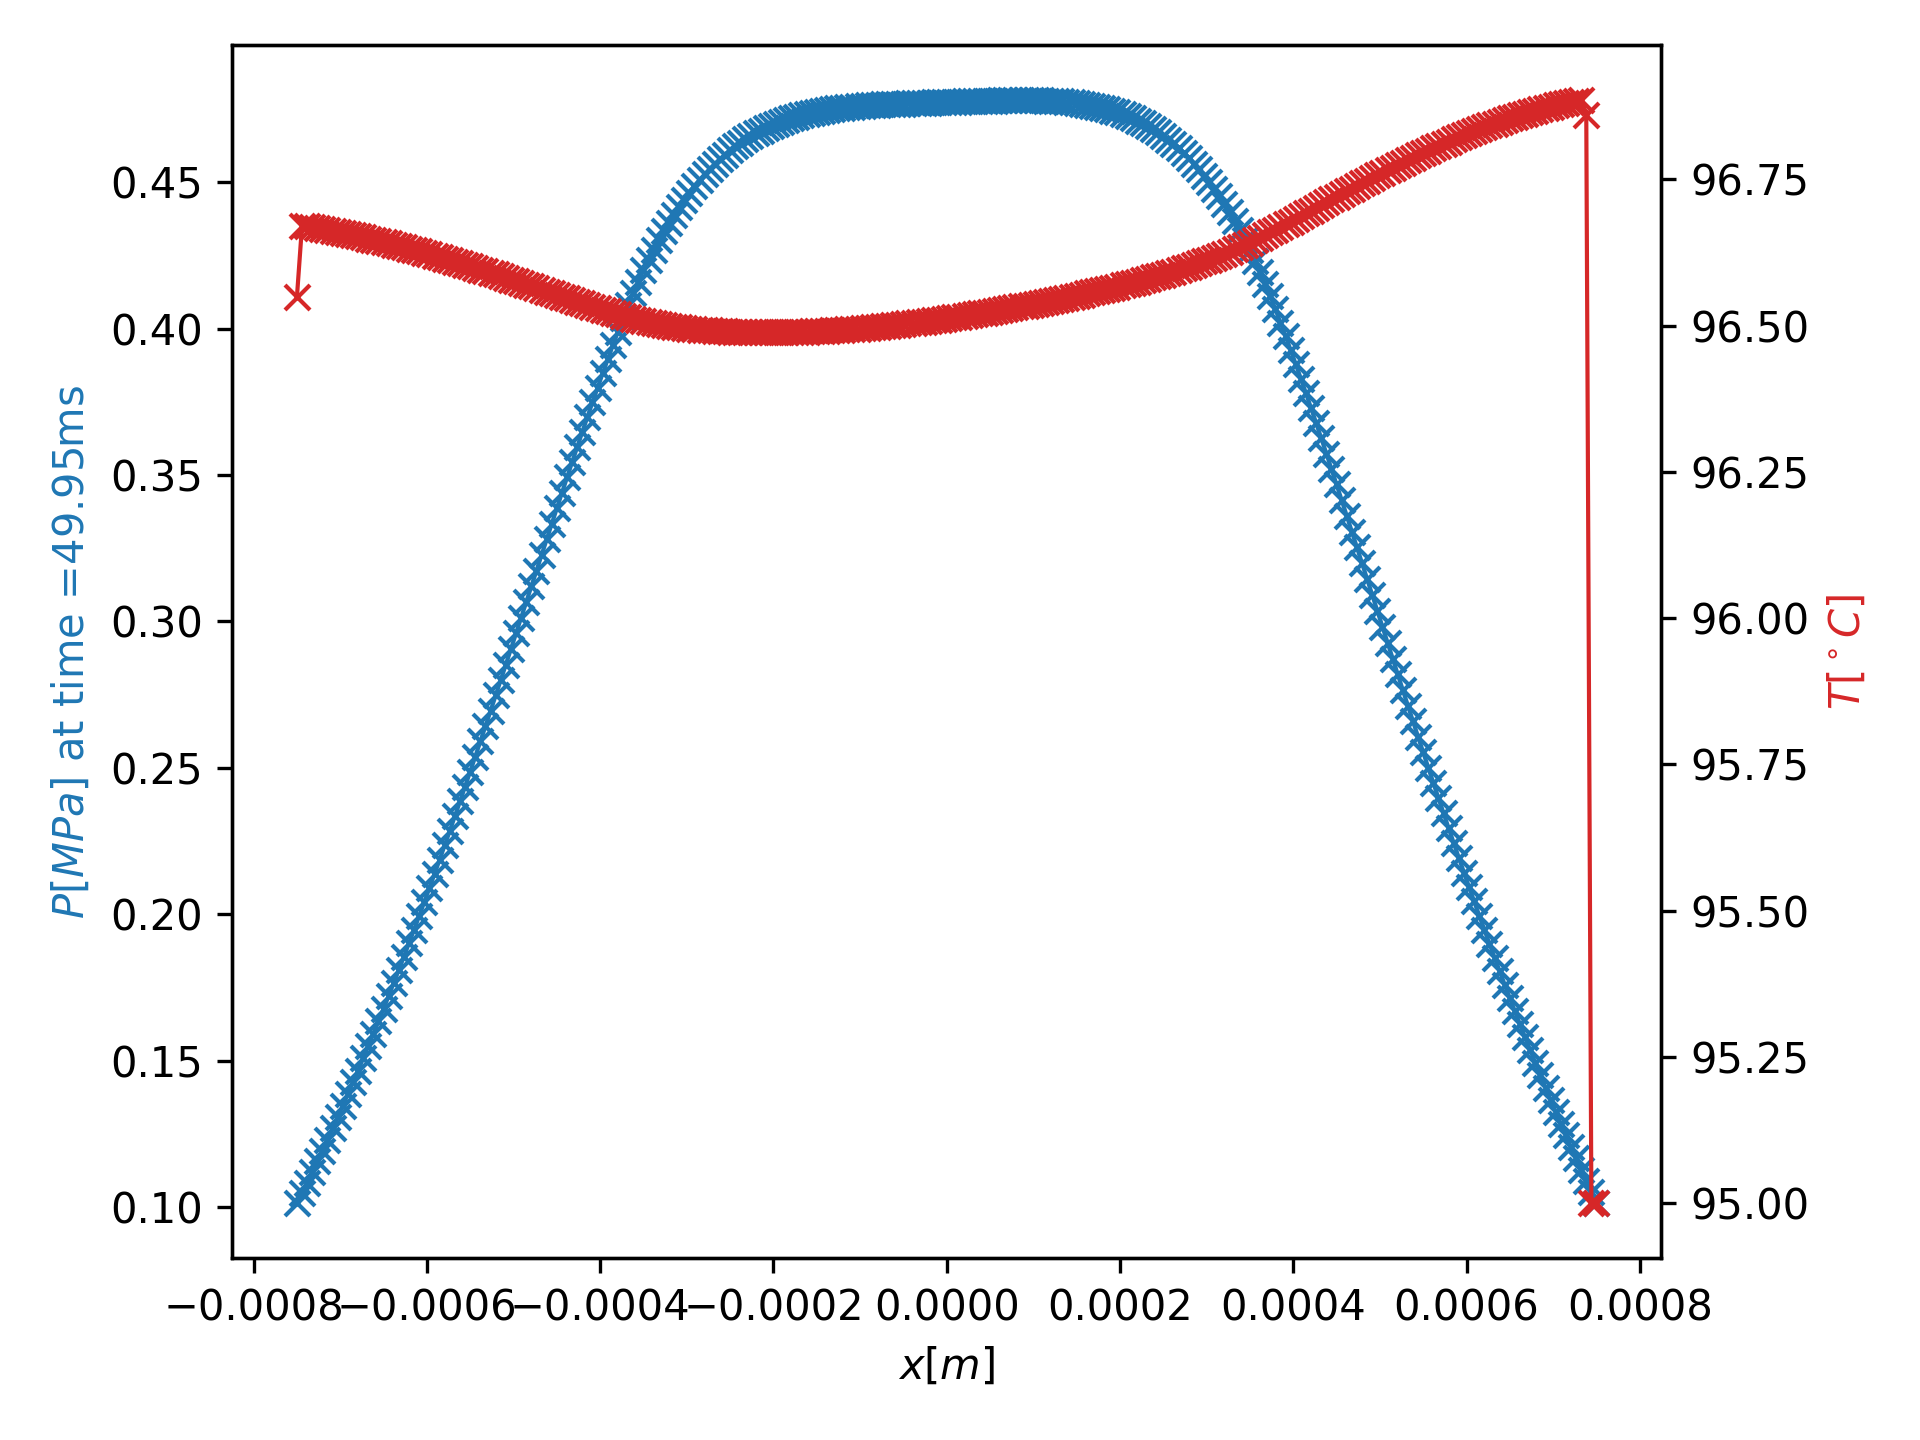
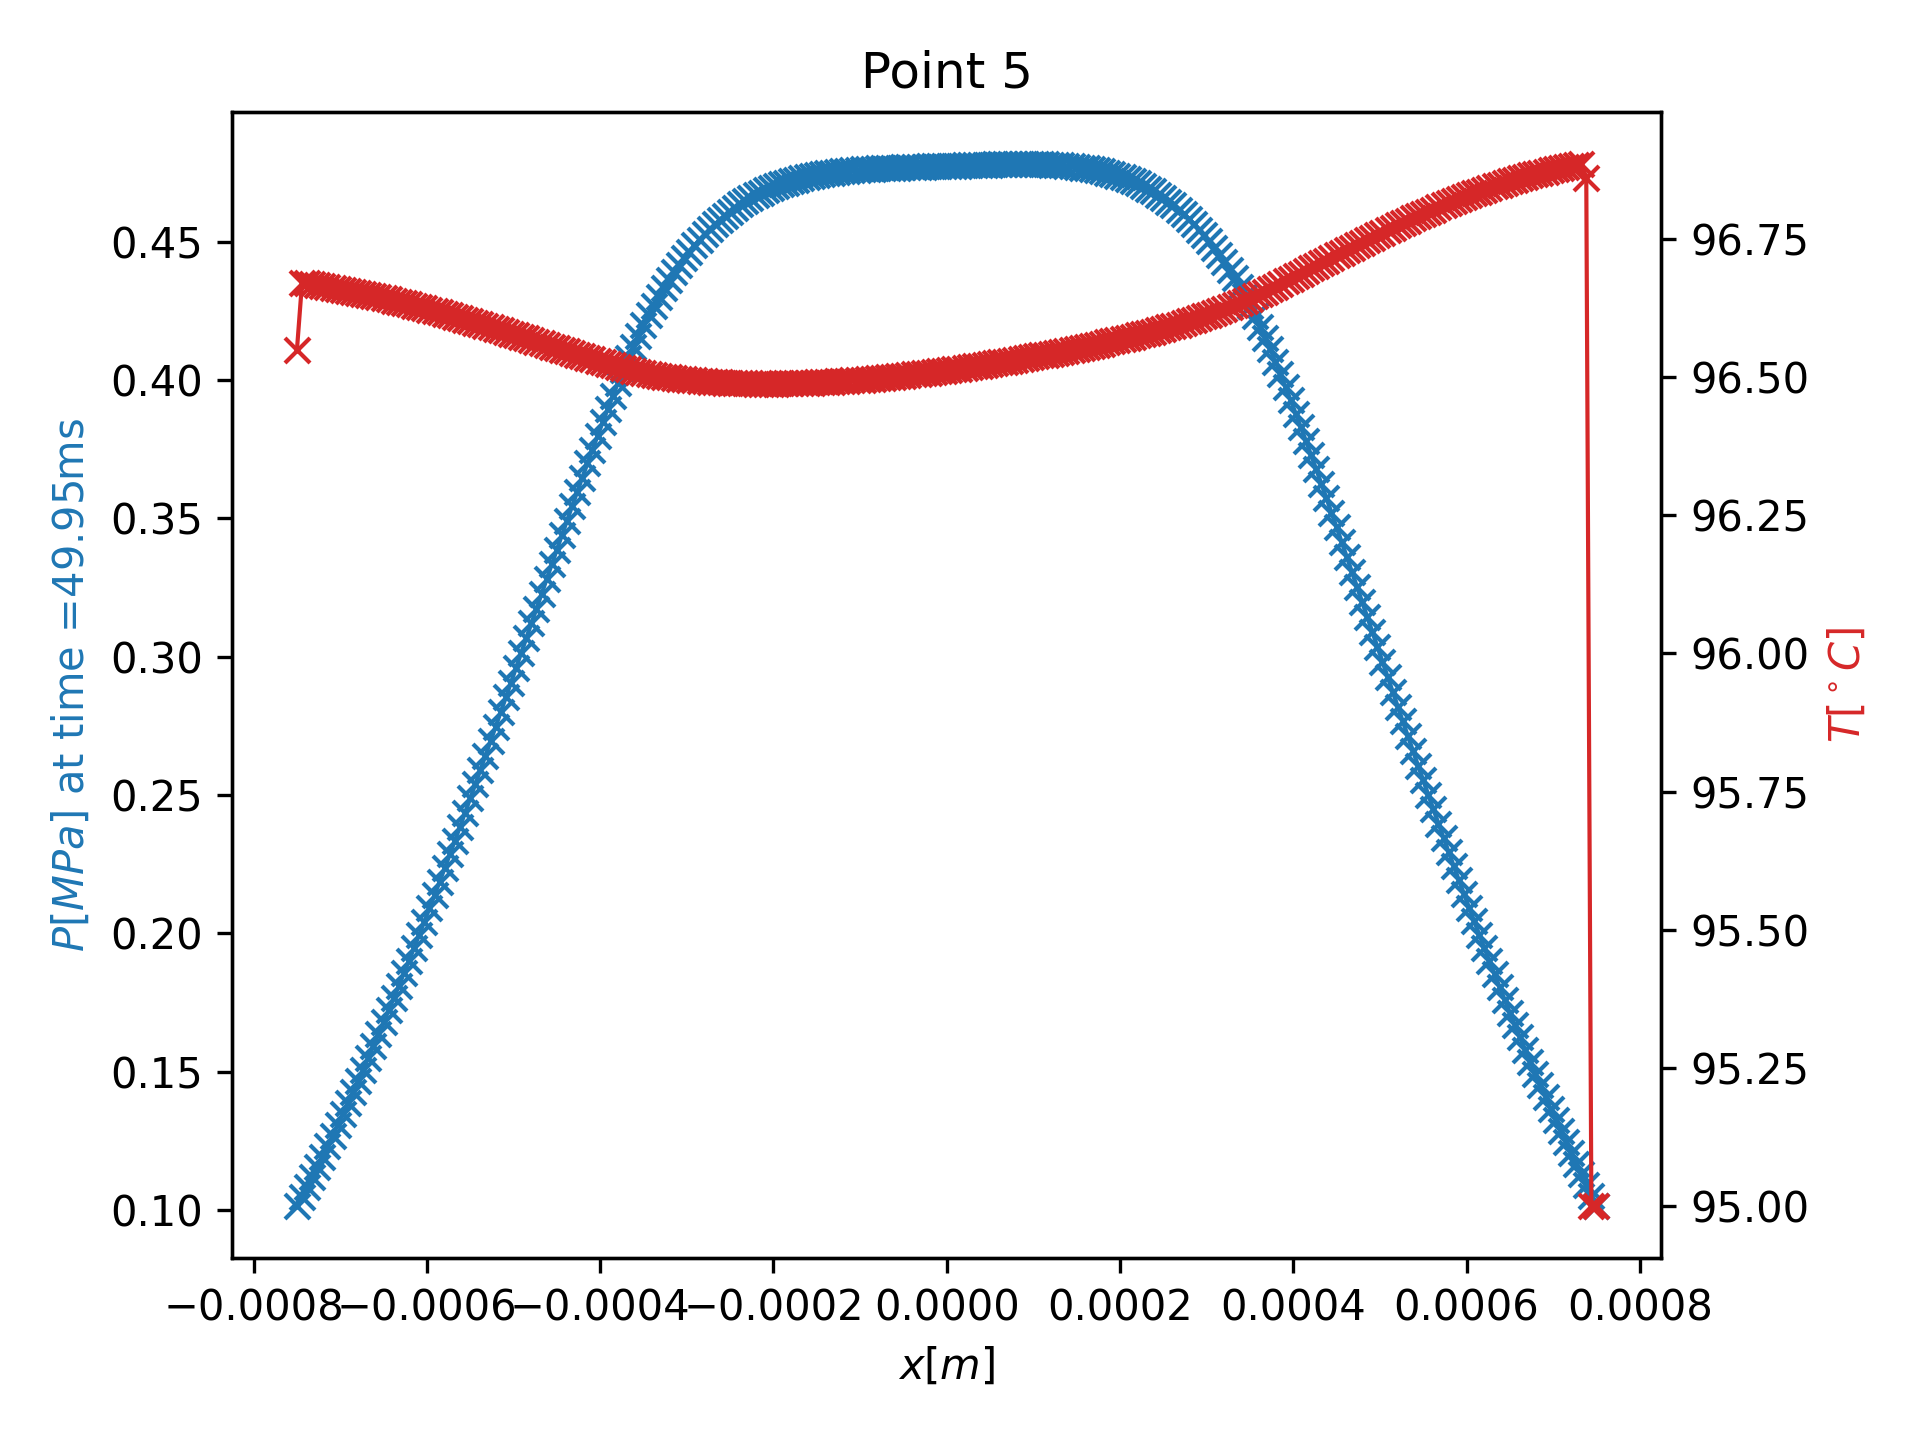
more worn figures

diff --git a/PostProcessing_worn.py b/PostProcessing_worn.py
@@ -154,88 +154,88 @@ for time in range(Time.nt - 1):
     COF_values[time] = abs(StateVector[time].COF)
 
 ## Single color film thickness
-plt.plot(Ops.CranckAngle[1:], Lambda_values, 'o',label='worn ring',markersize=3)
-plt.plot(Ops.CranckAngle[1:], Lambda_new, 'o',label='new ring',markersize=3)
-plt.xlabel('Crank angle $\psi$ [rad]')
-plt.ylabel('$\Lambda$ [-]')
-plt.hlines([ 2.5],-2,15,'k',['dashdot'], linewidth=.8,label='Λ = 2.5')
-plt.hlines([1],-2,15,'k',['dotted'], linewidth=.8,label='Λ = 1')
-plt.xlim([-.5, 13])
-# plt.vlines(Ops.CranckAngle[time],-1,60,'k','--', linewidth=.6)
-plt.ylim([-1,60])
-plt.legend(loc= (.58,.75))
-pi = np.pi
-psi = np.arange(0, 4 * pi + pi/2, step=(pi/2))
-plt.xticks(psi,['0','π/2', 'π', '3π/2', '2π','5π/2', '3π', '7π/2', '4π'])
+# plt.plot(Ops.CranckAngle[1:], Lambda_values, 'o',label='worn ring',markersize=3)
+# plt.plot(Ops.CranckAngle[1:], Lambda_new, 'o',label='new ring',markersize=3)
+# plt.xlabel('Crank angle $\psi$ [rad]')
+# plt.ylabel('$\Lambda$ [-]')
+# plt.hlines([ 2.5],-2,15,'k',['dashdot'], linewidth=.8,label='Λ = 2.5')
+# plt.hlines([1],-2,15,'k',['dotted'], linewidth=.8,label='Λ = 1')
+# plt.xlim([-.5, 13])
+# # plt.vlines(Ops.CranckAngle[time],-1,60,'k','--', linewidth=.6)
+# plt.ylim([-1,60])
+# plt.legend(loc= (.58,.75))
+# pi = np.pi
+# psi = np.arange(0, 4 * pi + pi/2, step=(pi/2))
+# plt.xticks(psi,['0','π/2', 'π', '3π/2', '2π','5π/2', '3π', '7π/2', '4π'])
 
-plt.vlines(Ops.CranckAngle[interesting_timestamps],-3,60,'k','--', linewidth=.6)
+# plt.vlines(Ops.CranckAngle[interesting_timestamps],-3,60,'k','--', linewidth=.6)
 
-p = Rectangle((2.156*pi,-3),1.364*pi,70,ec='red',fc='white',zorder=.1,hatch='/') #,fc='red'
-plt.gca().add_patch(p)
+# p = Rectangle((2.156*pi,-3),1.364*pi,70,ec='red',fc='white',zorder=.1,hatch='/') #,fc='red'
+# plt.gca().add_patch(p)
 
-plt.savefig('PostProcessing_worn/WORN_Film_thickness_comparison.png',dpi=300)
-plt.show()
-plt.close()
+# plt.savefig('PostProcessing_worn/WORN_Film_thickness_comparison.png',dpi=300)
+# plt.show()
+# plt.close()
 
 ## Multicolor filmthickness
-gradient = np.linspace(0,1,len(Ops.CranckAngle[1:]))
-for i in range(len(Lambda_values)):
-    plt.plot(Ops.CranckAngle[i+1],Lambda_values[i],'o',color=(.47,gradient[i],gradient[i]),markersize=3)
-plt.xlabel('Crank angle $\psi$ [rad]')
-plt.ylabel('$\Lambda$ [-]')
-plt.hlines([ 2.5],-2,15,'k',['dashdot'], linewidth=.8,label='Λ = 2.5')
-plt.hlines([1],-2,15,'k',['dotted'], linewidth=.8,label='Λ = 1')
-plt.xlim([-.5, 13])
-plt.vlines(Ops.CranckAngle[interesting_timestamps],-3,60,'k','--', linewidth=.6)
-plt.ylim([-1,60])
-p = Rectangle((2.156*pi,-3),1.364*pi,70,ec='red',fc='white',zorder=.1,hatch='/') #,fc='red'
-plt.gca().add_patch(p)
-pi = np.pi
-psi = np.arange(0, 4 * pi + pi/2, step=(pi/2))
-plt.xticks(psi,['0','π/2', 'π', '3π/2', '2π','5π/2', '3π', '7π/2', '4π'])
-plt.savefig('PostProcessing_worn/WORN_Film_thickness.png',dpi=300)
-plt.show()
-plt.close()
+# gradient = np.linspace(0,1,len(Ops.CranckAngle[1:]))
+# for i in range(len(Lambda_values)):
+#     plt.plot(Ops.CranckAngle[i+1],Lambda_values[i],'o',color=(.47,gradient[i],gradient[i]),markersize=3)
+# plt.xlabel('Crank angle $\psi$ [rad]')
+# plt.ylabel('$\Lambda$ [-]')
+# plt.hlines([ 2.5],-2,15,'k',['dashdot'], linewidth=.8,label='Λ = 2.5')
+# plt.hlines([1],-2,15,'k',['dotted'], linewidth=.8,label='Λ = 1')
+# plt.xlim([-.5, 13])
+# plt.vlines(Ops.CranckAngle[interesting_timestamps],-3,60,'k','--', linewidth=.6)
+# plt.ylim([-1,60])
+# p = Rectangle((2.156*pi,-3),1.364*pi,70,ec='red',fc='white',zorder=.1,hatch='/') #,fc='red'
+# plt.gca().add_patch(p)
+# pi = np.pi
+# psi = np.arange(0, 4 * pi + pi/2, step=(pi/2))
+# plt.xticks(psi,['0','π/2', 'π', '3π/2', '2π','5π/2', '3π', '7π/2', '4π'])
+# plt.savefig('PostProcessing_worn/WORN_Film_thickness.png',dpi=300)
+# plt.show()
+# plt.close()
 
 
 # # ## Stribeck curve
 
-
-
-plt.plot(Hersey_values*10**4, COF_values, 'o',markersize=3)
-plt.xlabel('Hersey number x$ 10^4$ [-]')
-plt.ylabel('Coefficient of Friction [-]')
-plt.savefig('PostProcessing_worn/WORN_Stribeck_curve_single_color.png',dpi=300)
-plt.show()
-plt.close()
+# plt.plot(Hersey_values*10**4, COF_values, 'o',markersize=3)
+# plt.xlabel('Hersey number x$ 10^4$ [-]')
+# plt.ylabel('Coefficient of Friction [-]')
+# plt.savefig('PostProcessing_worn/WORN_Stribeck_curve_single_color.png',dpi=300)
+# plt.show()
+# plt.close()
 
 ## Multi color Stribeck
-for i in range(len(COF_values)):
-    plt.plot(Hersey_values[i]*10**4,COF_values[i],'o',color=(.47,gradient[i],gradient[i]),markersize=3)
-plt.xlabel('Hersey number x$ 10^4$ [-]')
-plt.ylabel('Coefficient of Friction [-]')
-# plt.xscale('log')
-plt.savefig('PostProcessing_worn/WORN_Stribeck_curve.png',dpi=300)
-plt.show()
-plt.close()
+# for i in range(len(COF_values)):
+#     plt.plot(Hersey_values[i]*10**4,COF_values[i],'o',color=(.47,gradient[i],gradient[i]),markersize=3)
+# plt.xlabel('Hersey number x$ 10^4$ [-]')
+# plt.ylabel('Coefficient of Friction [-]')
+# # plt.xscale('log')
+# plt.savefig('PostProcessing_worn/WORN_Stribeck_curve.png',dpi=300)
+# plt.show()
+# plt.close()
 
 
 
 # ## Interesting points
-vis.Report_Ops(Time,Ops,interesting_timestamps)
-plt.savefig('PostProcessing_worn/WORN_Interesting_points.png',dpi=300)
-plt.show()
-plt.close()
+# vis.Report_Ops(Time,Ops,interesting_timestamps)
+# plt.savefig('PostProcessing_worn/WORN_Interesting_points.png',dpi=300)
+# plt.show()
+# plt.close()
 
 
 
 
 # ## Characteristic pressure & temperature fields at interesting and relevant locations
-
+i=0
 for time in interesting_timestamps:
-    
+    i+=1
     vis.Report_PT(Grid, StateVector[time], time=time) # plt.show() has to be uncommented in VisualLib --> kan ook gwn hier
     figname="PostProcessing_worn/WORN_PT@Time_"+"{0:.2f}".format(round(Time.t[time]*1000,5))+"ms.png" 
+    plt.title('Point ' +str(i))
+    plt.tight_layout()
     plt.savefig(figname,dpi=300)
     plt.show()
     plt.close()
@@ -276,83 +276,85 @@ for time in interesting_timestamps:
 
 
 ## 2D vectorplot of flow velocity at relevant locations
-
-for time in interesting_timestamps:
-    visc_x = StateVector[time].Viscosity
-    density = Mixture.Density(StateVector[time])
-    p = StateVector[time].Pressure
-    p_x = Discretization.DDXCentral @ p
-    DDX = Discretization.DDXCentral
-    p_y = 0.0
-    x_grid = Grid.x
-    z_n = Grid.Nx
-    # h = StateVector[time].h
-    h_template = 4 * Engine.CompressionRing.CrownHeight * (Grid.x**2) / (Engine.CompressionRing.Thickness**2)
-    h_transl = h_template - 0.25 * Engine.CompressionRing.CrownHeight
-    h_capped = np.maximum(h_transl, 0)
-    h = h_capped + StateVector[time].h0
+# j = 0
+# for time in interesting_timestamps:
+#     j += 1
+#     visc_x = StateVector[time].Viscosity
+#     density = Mixture.Density(StateVector[time])
+#     p = StateVector[time].Pressure
+#     p_x = Discretization.DDXCentral @ p
+#     DDX = Discretization.DDXCentral
+#     p_y = 0.0
+#     x_grid = Grid.x
+#     z_n = Grid.Nx
+#     # h = StateVector[time].h
+#     h_template = 4 * Engine.CompressionRing.CrownHeight * (Grid.x**2) / (Engine.CompressionRing.Thickness**2)
+#     h_transl = h_template - 0.25 * Engine.CompressionRing.CrownHeight
+#     h_capped = np.maximum(h_transl, 0)
+#     h = h_capped + StateVector[time].h0
     
-    u1 = 0
-    u2 = Ops.SlidingVelocity[time] # or PistonVelocity ? idk
-    Nx = Grid.Nx
-    u_x = np.zeros((z_n, Nx))
-    u_z = np.zeros((z_n, Nx))
+#     u1 = 0
+#     u2 = Ops.SlidingVelocity[time] # or PistonVelocity ? idk
+#     Nx = Grid.Nx
+#     u_x = np.zeros((z_n, Nx))
+#     u_z = np.zeros((z_n, Nx))
 
-    z_grid = np.linspace(0.0, h[0], z_n)
-    for x in range(Grid.Nx):
-        u_x[:, x] = np.array([1/visc_x[x] * p_x[x] * 1/2 * (z**2 - h[x] * z) if z < h[x] else 0 for z in z_grid])  # Poiseuille
-        u_x[:, x] += np.array([(u2 - u1) / h[x] * z + u1 if z < h[x] else 0 for z in z_grid])                      # Couette
-        # Note: list comprehension is used to get zero for points "inside" of the ring in the vector plot
-        # print(u_x[:,x])
-        # print(np.array([1/visc_x[x] * p_x[x] * 1/2 * (z**2 - h[x] * z) if z < h[x] else 0 for z in z_grid]))
-        # u_z[:, x] = np.trapz(1/density[x] * DDX @ (density[x] * u_x[:, x]),z_grid)*10000
+#     z_grid = np.linspace(0.0, h[0], z_n)
+#     for x in range(Grid.Nx):
+#         u_x[:, x] = np.array([1/visc_x[x] * p_x[x] * 1/2 * (z**2 - h[x] * z) if z < h[x] else 0 for z in z_grid])  # Poiseuille
+#         u_x[:, x] += np.array([(u2 - u1) / h[x] * z + u1 if z < h[x] else 0 for z in z_grid])                      # Couette
+#         # Note: list comprehension is used to get zero for points "inside" of the ring in the vector plot
+#         # print(u_x[:,x])
+#         # print(np.array([1/visc_x[x] * p_x[x] * 1/2 * (z**2 - h[x] * z) if z < h[x] else 0 for z in z_grid]))
+#         # u_z[:, x] = np.trapz(1/density[x] * DDX @ (density[x] * u_x[:, x]),z_grid)*10000
     
-    # np.average(u_x)
-    ## Reduce amount of datapoint used to generate vectors. Note: plt.quiver wants the same amount of elements in X and Y!
-    skip = 10
-    scale = 1
-    # if time == 1:
-    #     skip = 12
-    #     scale = 20
-    if time in np.array([1, 500, 999]):
-        skip = 14
-        scale = 5
-    skip1 = (slice(None, None, skip))
-    skip2 = (slice(None, None, skip), slice(None, None, skip))
+#     # np.average(u_x)
+#     ## Reduce amount of datapoint used to generate vectors. Note: plt.quiver wants the same amount of elements in X and Y!
+#     skip = 10
+#     scale = 1
+#     # if time == 1:
+#     #     skip = 12
+#     #     scale = 20
+#     if time in np.array([1, 500, 999]):
+#         skip = 14
+#         scale = 5
+#     skip1 = (slice(None, None, skip))
+#     skip2 = (slice(None, None, skip), slice(None, None, skip))
 
-    ## Make grid for vectors
-    X, Z = np.meshgrid(x_grid[skip1], z_grid[skip1])
+#     ## Make grid for vectors
+#     X, Z = np.meshgrid(x_grid[skip1], z_grid[skip1])
 
-    X_l, Z_l = np.meshgrid((x_grid[:Nx//2])[skip1], (z_grid)[skip1])
-    X_r, Z_r = np.meshgrid((x_grid[Nx//2+1:])[skip1], (z_grid)[skip1])
+#     X_l, Z_l = np.meshgrid((x_grid[:Nx//2])[skip1], (z_grid)[skip1])
+#     X_r, Z_r = np.meshgrid((x_grid[Nx//2+1:])[skip1], (z_grid)[skip1])
 
 
-    ## Make vector plot
-    pts = [[-0.75,0.02]]
+#     ## Make vector plot
+#     pts = [[-0.75,0.02]]
     
-    for i in range(len(x_grid)):
-        pts.append([x_grid[i]*1000,h[i]*1000])
-    pts.append([0.75,0.02])
-    p = Polygon(pts,closed=False,ec='black',fc='grey',zorder=.1)
-    plt.gca().add_patch(p)
+#     for i in range(len(x_grid)):
+#         pts.append([x_grid[i]*1000,h[i]*1000])
+#     pts.append([0.75,0.02])
+#     p = Polygon(pts,closed=False,ec='black',fc='grey',zorder=.1)
+#     plt.gca().add_patch(p)
 
-    plt.quiver(X*1000,Z*1000,u_x[skip2]*scale,u_z[skip2],pivot='tail',minlength=0,scale=350) #scale=350 for v!=0
+#     plt.quiver(X*1000,Z*1000,u_x[skip2]*scale,u_z[skip2],pivot='tail',minlength=0,scale=350) #scale=350 for v!=0
 
-    ### (Un)comment following two line to ensure that no vector crosses the ring.
-    # plt.quiver(X_l,Z_l,(u_x[:,:Nx//2])[skip2],(u_z[:,:Nx//2])[skip2],minlength=0,pivot='tip',scale=350)
-    # plt.quiver(X_r,Z_r,(u_x[:,Nx//2+1:])[skip2],(u_z[:,Nx//2+1:])[skip2],minlength=0,pivot='tail',scale=350)
+#     ### (Un)comment following two line to ensure that no vector crosses the ring.
+#     # plt.quiver(X_l,Z_l,(u_x[:,:Nx//2])[skip2],(u_z[:,:Nx//2])[skip2],minlength=0,pivot='tip',scale=350)
+#     # plt.quiver(X_r,Z_r,(u_x[:,Nx//2+1:])[skip2],(u_z[:,Nx//2+1:])[skip2],minlength=0,pivot='tail',scale=350)
 
-    # plt.plot(x_grid*1000, StateVector[time].h*1000)
-    figname="PostProcessing_worn/WORN_Vectorplot@Time_"+"{0:.2f}".format(round(Time.t[time]*1000,5))+"ms.png" 
-    plt.xlabel('x [mm]')
-    plt.ylabel('z [mm]')
-    plt.title('Vectorplot for t =' + str(time*5/100) + 'ms')
-    plt.xlim([-.8,.8])
-    plt.ylim([0.0, 0.0175])
-    plt.tight_layout()
-    plt.savefig(figname,dpi=300)
-    plt.show()
-    plt.close()
+#     # plt.plot(x_grid*1000, StateVector[time].h*1000)
+#     figname="PostProcessing_worn/WORN_Vectorplot@Time_"+"{0:.2f}".format(round(Time.t[time]*1000,5))+"ms.png" 
+#     plt.xlabel('x [mm]')
+#     plt.ylabel('z [mm]')
+#     # plt.title('Vectorplot for t =' + str(time*5/100) + 'ms')
+#     plt.title('Point ' +str(j))
+#     plt.xlim([-.8,.8])
+#     plt.ylim([0.0, 0.0175])
+#     plt.tight_layout()
+#     plt.savefig(figname,dpi=300)
+#     plt.show()
+#     plt.close()
 
             
 
@@ -369,6 +371,9 @@ plt.plot(Ops.CranckAngle[1:], WearDepthRing_values, 'o',markersize=3)
 plt.xlabel('Crank angle [rad]')
 # plt.plot(Time.t[1:], WearDepthRing_values, 'bo')
 # plt.xlabel('time [s]')
+pi = np.pi
+psi = np.arange(0, 4 * pi + pi/2, step=(pi/2))
+plt.xticks(psi,['0','π/2', 'π', '3π/2', '2π','5π/2', '3π', '7π/2', '4π'])
 plt.ylabel('Weardepth ring [mm]')
 plt.savefig('PostProcessing_worn/WORN_WearDepth_ring.png',dpi=300)
 plt.show()
@@ -377,12 +382,12 @@ plt.close()
 
 # for time in interesting_timestamps:
 time = 999 # We are only interested in wear after a full combustion cycle
-plt.plot(StateVector[time].WearLocationsCylinder*1000 - 95.5, StateVector[time].WearDepthCylinder, 'o',markersize=3)
-plt.xlabel('Location on cylinder liner [mm]')
-plt.ylabel('Wear depth [m]')
-plt.savefig('PostProcessing_worn/WORN_Wear_cylinder.png',dpi=300)    
-plt.show()
-plt.close()
+# plt.plot(StateVector[time].WearLocationsCylinder*1000 - 95.5, StateVector[time].WearDepthCylinder, 'o',markersize=3)
+# plt.xlabel('Location on cylinder liner [mm]')
+# plt.ylabel('Wear depth [m]')
+# plt.savefig('PostProcessing_worn/WORN_Wear_cylinder.png',dpi=300)    
+# plt.show()
+# plt.close()
 
 # print('Maximim wear depth on cylinder sleeve = ' + str(max(StateVector[time].WearDepthCylinder)))
 

diff --git a/PostProcessing.py b/PostProcessing.py
@@ -331,22 +331,25 @@ plt.close()
             
 
 
-# ## Wear of Compression Ring and Wear at Cylinder liner after one combustion cycle
+## Wear of Compression Ring and Wear at Cylinder liner after one combustion cycle
 
-# WearDepthRing_values = np.zeros(Time.nt - 1)
-# WearDepthCylinder_values = np.zeros(len(interesting_timestamps))
+WearDepthRing_values = np.zeros(Time.nt - 1)
+WearDepthCylinder_values = np.zeros(len(interesting_timestamps))
 
-# for time in range(Time.nt - 1):
-#     WearDepthRing_values[time] = StateVector[time].WearDepthRing
+for time in range(Time.nt - 1):
+    WearDepthRing_values[time] = StateVector[time].WearDepthRing
 
-# plt.plot(Ops.CranckAngle[1:], WearDepthRing_values, 'bo')
-# plt.xlabel('Crank angle [rad]')
-# # plt.plot(Time.t[1:], WearDepthRing_values, 'bo')
-# # plt.xlabel('time [s]')
-# plt.ylabel('Weardepth ring [mm]')
-# plt.savefig('PostProcessing/WearDepth_ring.png',dpi=300)
-# # plt.show()
-# plt.close()
+plt.plot(Ops.CranckAngle[1:], WearDepthRing_values, 'bo')
+plt.xlabel('Crank angle [rad]')
+# plt.plot(Time.t[1:], WearDepthRing_values, 'bo')
+# plt.xlabel('time [s]')
+plt.ylabel('Weardepth ring [mm]')
+pi = np.pi
+# psi = np.arange(0, 4 * pi + pi/2, step=(pi/2))
+# plt.xticks(psi,['0','π/2', 'π', '3π/2', '2π','5π/2', '3π', '7π/2', '4π'])
+plt.savefig('PostProcessing/WearDepth_ring.png',dpi=300)
+# plt.show()
+plt.close()
 
 
 # for time in interesting_timestamps:

diff --git a/VisualLib.py b/VisualLib.py
@@ -28,7 +28,7 @@ def Report_PT(Grid,State,time=None): # initiatlization
     ax2.set_ylabel('$T [^\circ C]$',color=color)  # we already handled the x-label with ax1
     ax2.plot(Grid.x,State.Temperature-273.15,'x-', linewidth=1,color=color)
     ax2.tick_params(axis='y')
-    f1.tight_layout()  # otherwise the right y-label is slightly clipped
+    # f1.tight_layout()  # otherwise the right y-label is slightly clipped
     # plt.show()
     return f1
     
